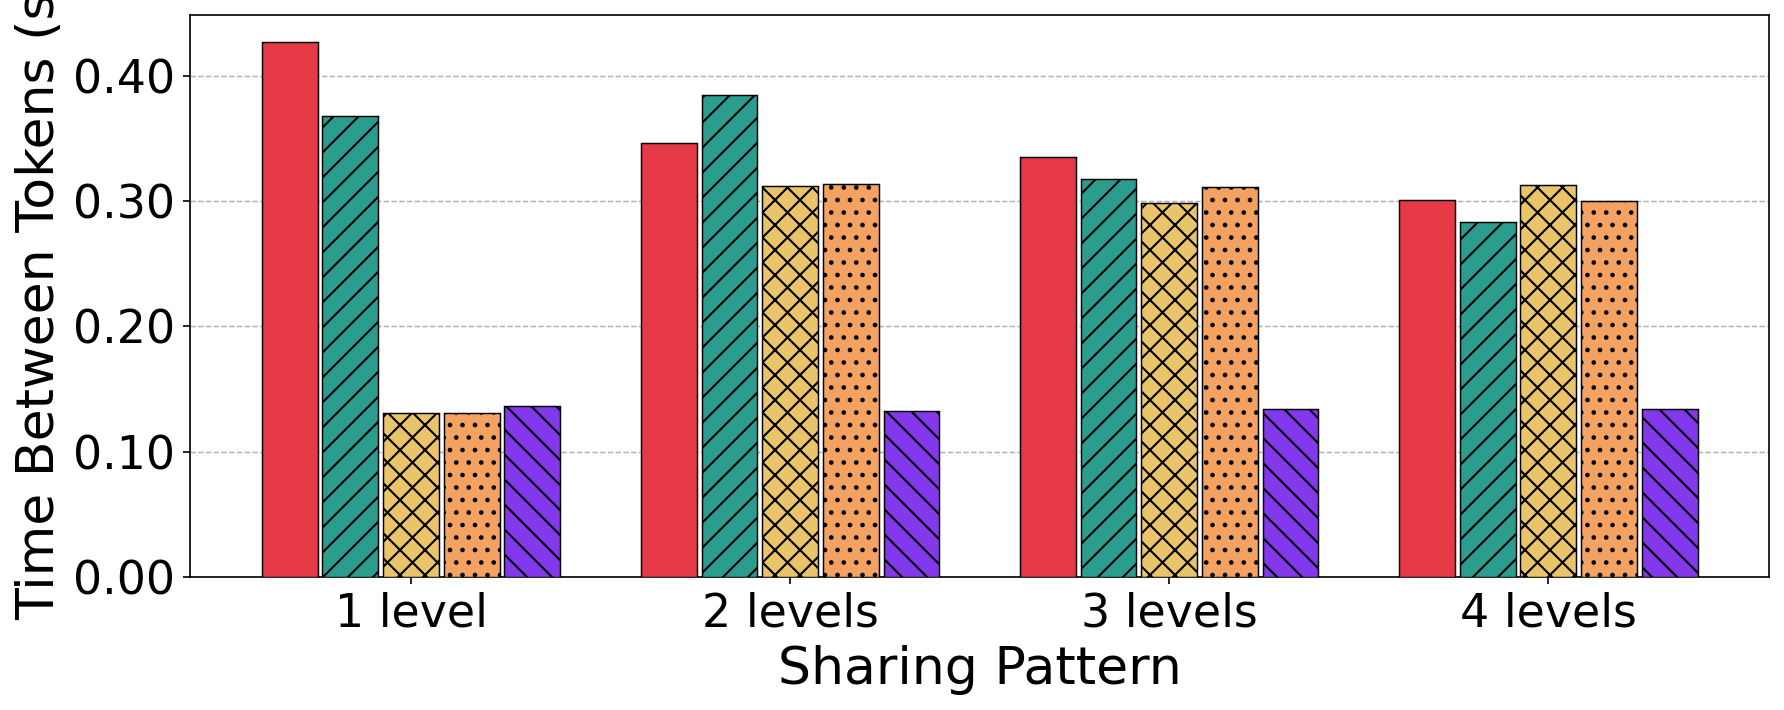
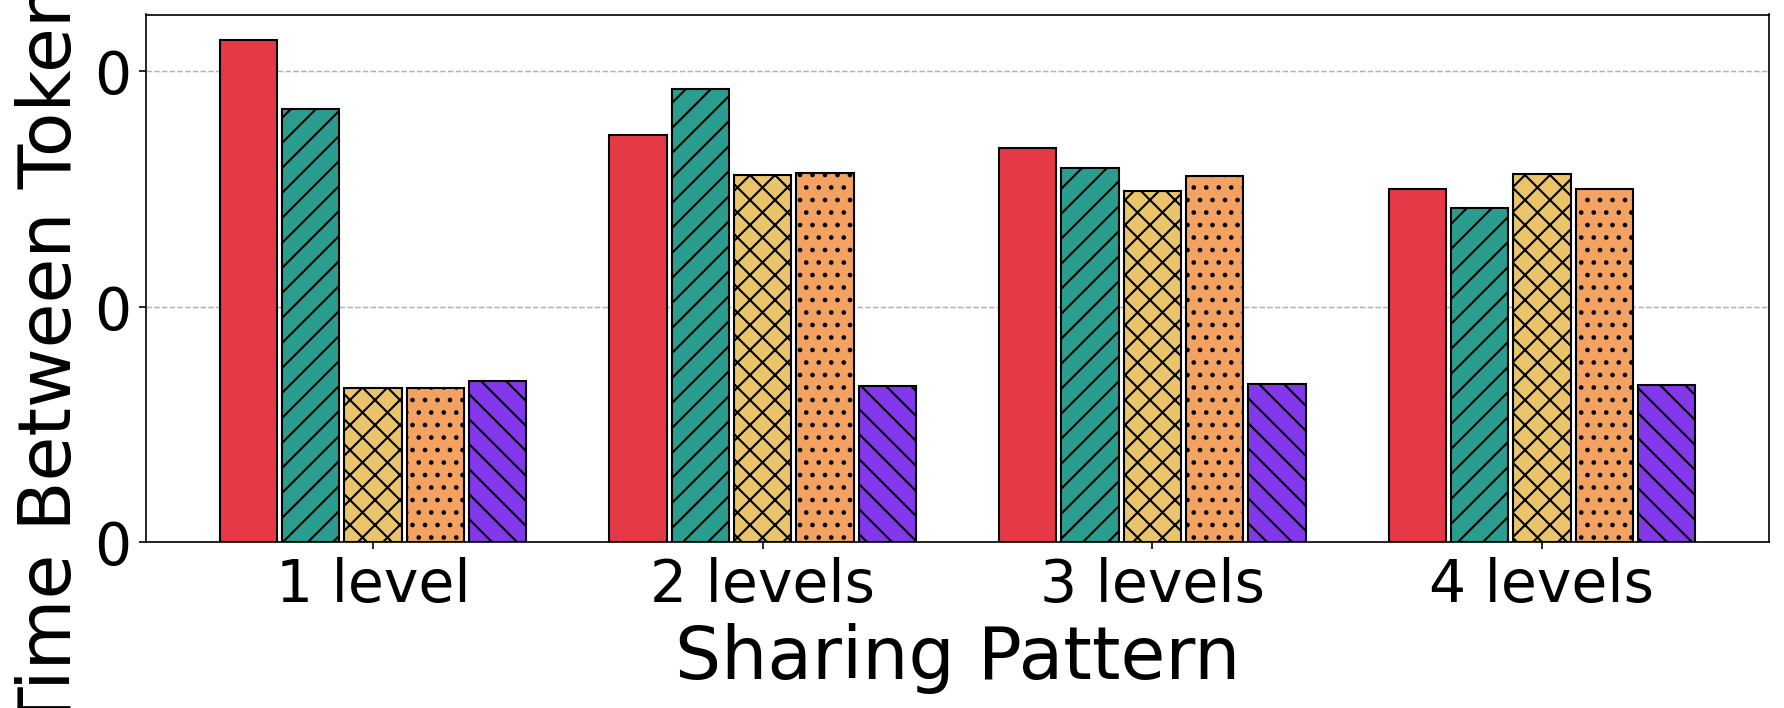
cpu overhead

Changed region(s): [[0.0, 0.0, 0.9865, 1.0]]

diff --git a/code/vllm/radix_tree_logs/plot.py b/code/vllm/radix_tree_logs/plot.py
@@ -182,14 +182,14 @@ for sv in sorted(per_sys.keys()):
             for mode in sys_modes:
                 v = sys_data[label][mode].get(metric_key) if mode in sys_data[label] else None
                 ys.append(v if v is not None else 0.0)
-
+            # bold the hatches
             ax.bar(
                 xs, ys,
                 width=bar_width * 0.92,
                 color=color,
                 hatch=hatch,
                 edgecolor="black",
-                linewidth=0.7,
+                linewidth=1,
                 label=label,
                 zorder=3,
             )
@@ -206,14 +206,16 @@ for sv in sorted(per_sys.keys()):
                 return "4 levels"
             return None
         mode_labels = [mode_labels_func(m) for m in all_modes]
-        ax.set_xticklabels(mode_labels, fontsize=22)
-        ax.set_xlabel("Sharing Pattern", fontsize=25)
-        ax.set_ylabel(ylabel, fontsize=25)
-        ax.tick_params(axis="both", labelsize=22)
-        ax.yaxis.set_major_formatter(ticker.FormatStrFormatter("%.2f"))
+        ax.set_xticklabels(mode_labels, fontsize=30)
+        ax.set_xlabel("Sharing Pattern", fontsize=35)
+        ax.set_ylabel(ylabel, fontsize=35)
+        ax.tick_params(axis="both", labelsize=28)
+        # set 1000 to 1K
+        ax.yaxis.set_major_formatter(ticker.FuncFormatter(lambda x, _: f"{x/1000:.0f}K" if x >= 1000 else f"{x:.0f}"))
         if metric_key == "throughput":
-            ax.legend(fontsize=20, framealpha=0.35, ncol=3,
-                      loc="upper left", bbox_to_anchor=(0, 1.18))
+            # reduce the gap between rows in the legend
+            ax.legend(fontsize=25, framealpha=0.35, ncol=3,
+                      loc="upper center", bbox_to_anchor=(0, 1.30), columnspacing=0.1, handletextpad=0.3, borderpad=0.3)
         ax.grid(True, axis="y", linewidth=0.7, linestyle="--", zorder=0)
         ax.set_axisbelow(True)
         ax.set_ylim(bottom=0)
@@ -227,7 +229,7 @@ for sv in sorted(per_sys.keys()):
     os.makedirs(sys_dir, exist_ok=True)
 
     make_barchart_for_sys(
-        "throughput", "Throughput (tok/s)",
+        "throughput", "TP (tok/s)",
         "Throughput by Mode",
         os.path.join(sys_dir, "throughput_by_mode.png"),
     )
